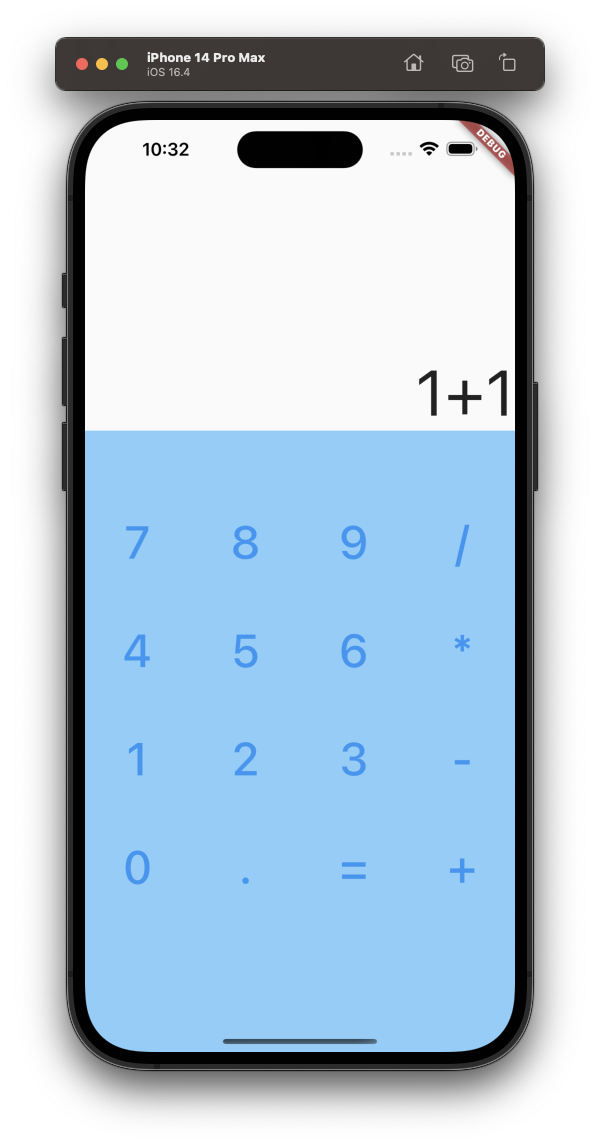
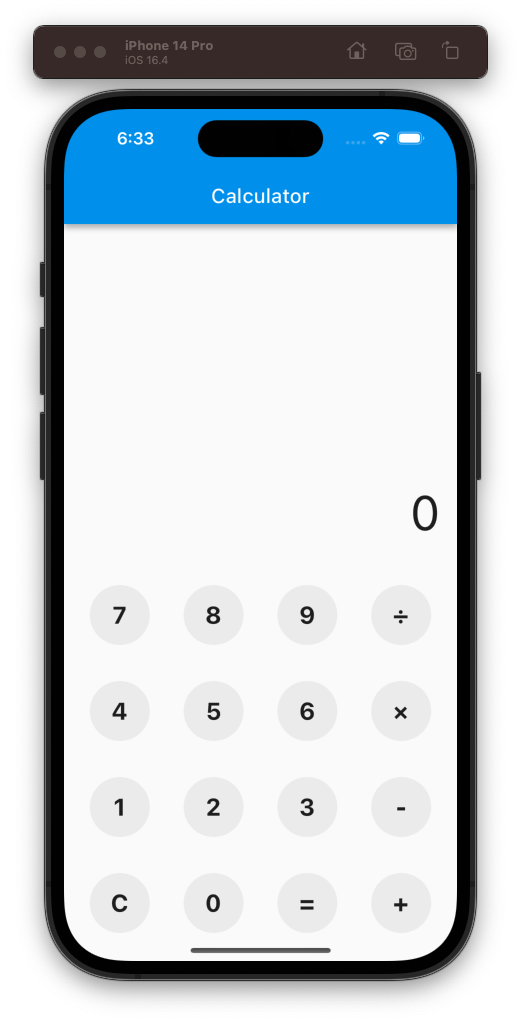
Button individualization

diff --git a/lib/main.dart b/lib/main.dart
@@ -1,96 +1,131 @@
 import 'package:flutter/material.dart';
+import 'calculator.dart';
 
-void main() => runApp(MyApp());
+void main() {
+  runApp(CalculatorApp());
+}
 
-class MyApp extends StatelessWidget {
+class CalculatorApp extends StatelessWidget {
   @override
   Widget build(BuildContext context) {
     return MaterialApp(
-      home: Scaffold(
-        body: Column(
-          mainAxisAlignment: MainAxisAlignment.start,
-          children: [
-            MyTextField(),
-            Keyboard(),
-          ],
-        ),
-      ),
+      debugShowCheckedModeBanner: false,
+      home: CalculatorScreen(),
     );
   }
 }
 
-// 表示
-class MyTextField extends StatefulWidget {
+class CalculatorScreen extends StatefulWidget {
+  CalculatorScreen({Key? key}) : super(key: key);
+
   @override
-  _MyTextFieldState createState() => _MyTextFieldState();
+  _CalculatorScreenState createState() => _CalculatorScreenState();
 }
 
-class _MyTextFieldState extends State<MyTextField> {
-  String _expression = '1+1';
+class _CalculatorScreenState extends State<CalculatorScreen> {
+  String input = '';
+  String output = '0';
+
+  void onDigitPress(String digit) {
+    setState(() {
+      input = input + digit;
+      output = input;
+    });
+  }
+
+  void onClear() {
+    setState(() {
+      input = '';
+      output = '0';
+    });
+  }
+
+  void onEvaluate() {
+    setState(() {
+      output = Calculator.evaluate(input);
+      input = '';
+    });
+  }
 
   @override
   Widget build(BuildContext context) {
-    return Expanded(
-      flex: 1,
-      child: Align(
-        alignment: Alignment.bottomRight,
-        child: Text(
-          _expression,
-          style: TextStyle(
-            fontSize: 64.0,
+    return Scaffold(
+      appBar: AppBar(title: Text('Calculator')),
+      body: Column(
+        mainAxisAlignment: MainAxisAlignment.end, // これを追加
+        children: <Widget>[
+          Container(
+            alignment: Alignment.bottomRight,
+            padding: EdgeInsets.all(16),
+            child: Text(
+              output,
+              style: TextStyle(fontSize: 48),
+            ),
           ),
-        ),
+          SizedBox(height: 20.0),
+          ...buildButtons(),
+        ],
       ),
     );
   }
-}
 
-class Keyboard extends StatelessWidget {
-  @override
-  Widget build(BuildContext context) {
-    return Expanded(
-      flex: 2,
-      child: Center(
+  List<Widget> buildButtons() {
+    const List<String> buttonLabels = [
+      '7', '8', '9', '÷',
+      '4', '5', '6', '×',
+      '1', '2', '3', '-',
+      'C', '0', '=', '+',
+    ];
+
+    List<Widget> buttons = [];
+    for (int i = 0; i < buttonLabels.length; i += 4) {
+      List<Widget> rowButtons = [];
+      for (int j = i; j < i + 4; j++) {
+        rowButtons.add(buildButton(buttonLabels[j]));
+      }
+      buttons.add(Row(
+          mainAxisAlignment: MainAxisAlignment.spaceEvenly,
+          children: rowButtons));
+    }
+    return buttons;
+  }
+
+  Widget buildButton(String label) {
+    return Padding(
+      padding: const EdgeInsets.only(bottom: 20.0),
+      child: Container(
+      margin: const EdgeInsets.all(8.0),
+      child: InkWell(
+        onTap: () => onButtonPress(label),
         child: Container(
-          color: const Color(0xff87cefa),
-          child: GridView.count(
-            crossAxisCount: 4,
-            mainAxisSpacing: 3.0,
-            crossAxisSpacing: 3.0,
-            children: [
-              '7', '8', '9', '/',
-              '4', '5', '6', '*',
-              '1', '2', '3', '-',
-              '0', '.', '=', '+',
-            ].map((key) {
-              return GridTile(
-                child: Button(key),
-              );
-            }).toList(),
+          width: 60,
+          height: 60,
+          decoration: BoxDecoration(
+            color: Colors.grey[200],
+            shape: BoxShape.circle,
+          ),
+          child: Center(
+            child: Text(
+              label,
+              style: const TextStyle(
+                fontSize: 24.0,
+                fontWeight: FontWeight.bold,
+              ),
+            ),
           ),
         ),
       ),
+    ),
     );
   }
-}
 
-// ボタン
-class Button extends StatelessWidget {
-  final String _key;
-  Button(this._key, {Key? key}) : super(key: key);
-
-  @override
-  Widget build(BuildContext context) {
-    return TextButton(
-      onPressed: () {
-        // ここでボタンが押されたときの処理を実装します。
-      },
-      child: Center(
-        child: Text(
-          _key,
-          style: TextStyle(fontSize: 46.0),
-        ),
-      ),
-    );
+  void onButtonPress(String label) {
+    if (label == 'C') {
+      onClear();
+    } else if (label == '=') {
+      onEvaluate();
+    } else {
+      onDigitPress(label);
+    }
   }
 }

diff --git a/lib/calculator.dart b/lib/calculator.dart
@@ -1,0 +1,15 @@
+import 'package:math_expressions/math_expressions.dart';
+
+class Calculator {
+  static String evaluate(String expression) {
+    try {
+      Parser p = Parser();
+      Expression exp = p.parse(expression);
+      ContextModel cm = ContextModel();
+      double eval = exp.evaluate(EvaluationType.REAL, cm);
+      return eval.toStringAsFixed(2);
+    } catch (e) {
+      return 'Error';
+    }
+  }
+}
